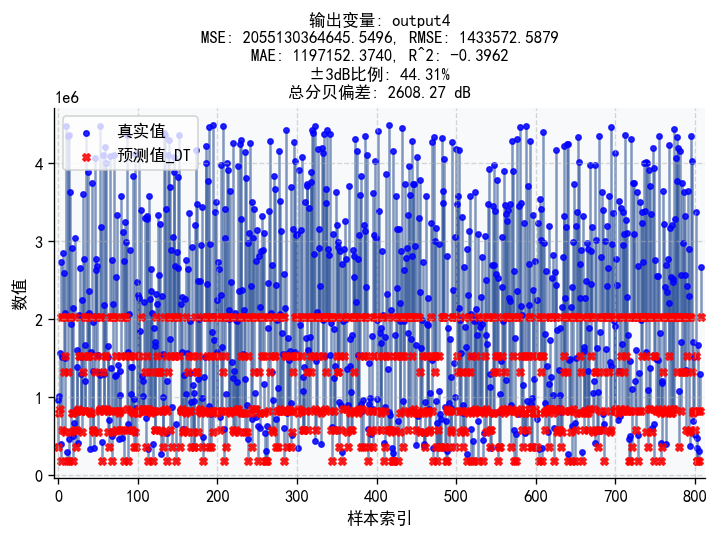
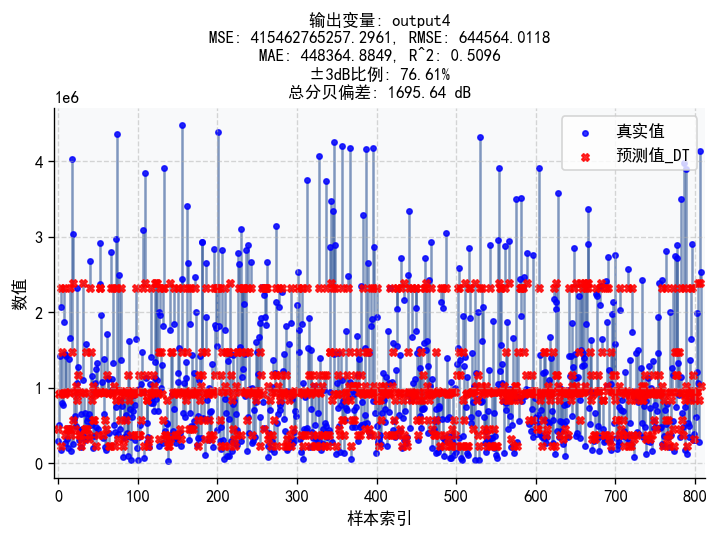
解决了一个小问题，就是点击shuffle一定会勾选百分比，然后更新百分比。下一步看看结果保存会如何，不过应该没啥问题

diff --git a/ui2025.py b/ui2025.py
@@ -1254,6 +1254,8 @@ class Ui_MainWindow(object):
         self.pushButton_train.clicked.connect(MainWindow.openfolder) # type: ignore
         self.pushButton_5.clicked.connect(MainWindow.AL_GP_para) # type: ignore
         self.pushButton_otherpara.clicked.connect(MainWindow.AL_Other_para) # type: ignore
+        self.shuffle_yes_or_no.clicked.connect(self.checkBox_percentage.toggle) # type: ignore
+        self.shuffle_yes_or_no.clicked.connect(MainWindow.change_percentage) # type: ignore
         QtCore.QMetaObject.connectSlotsByName(MainWindow)
 
     def retranslateUi(self, MainWindow):
